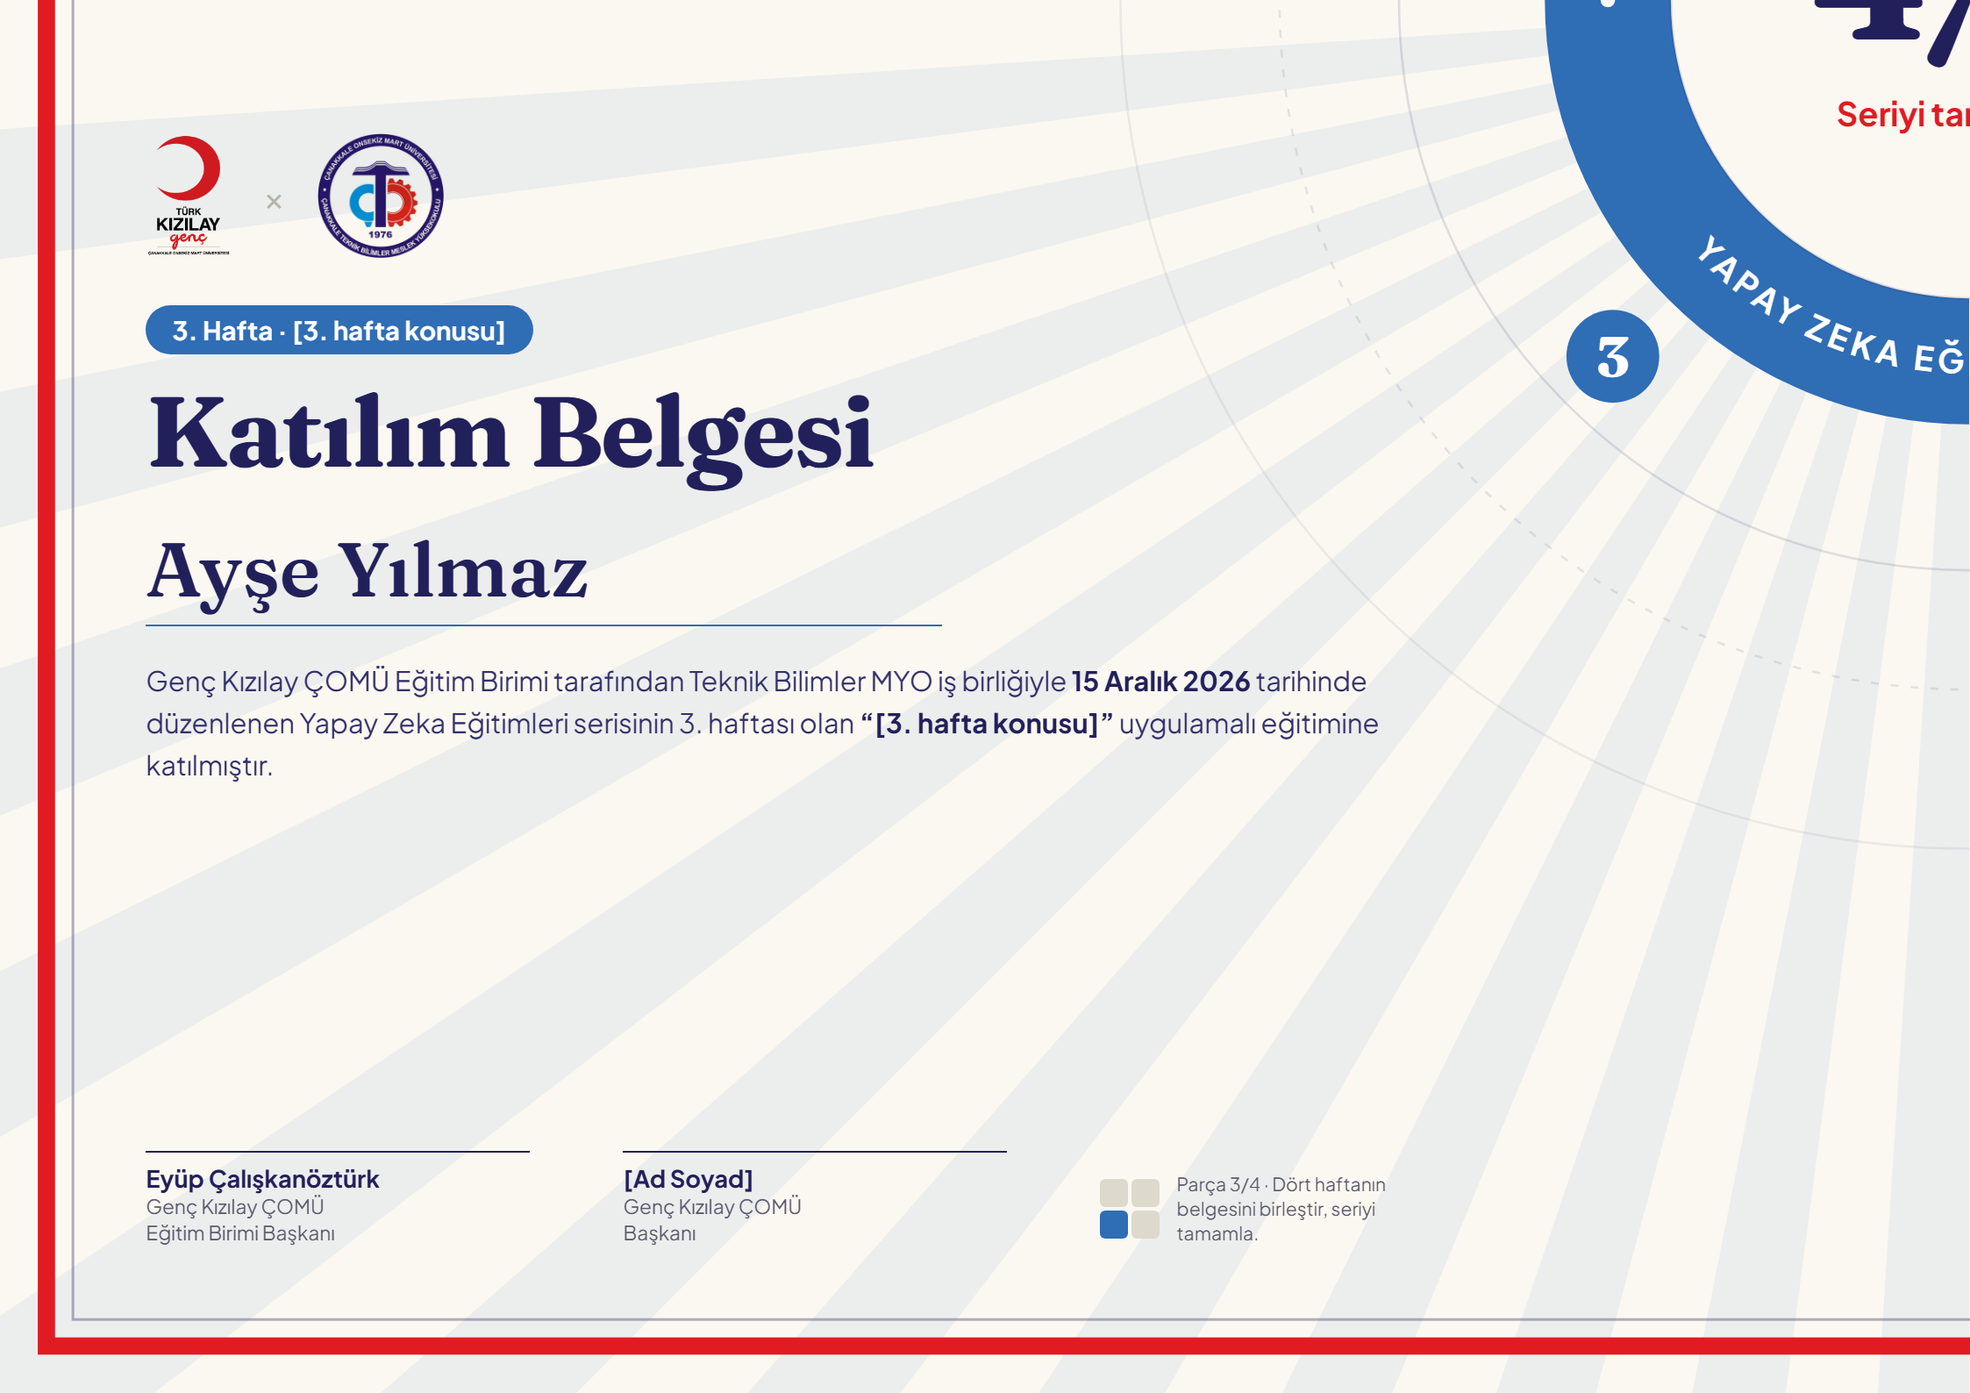
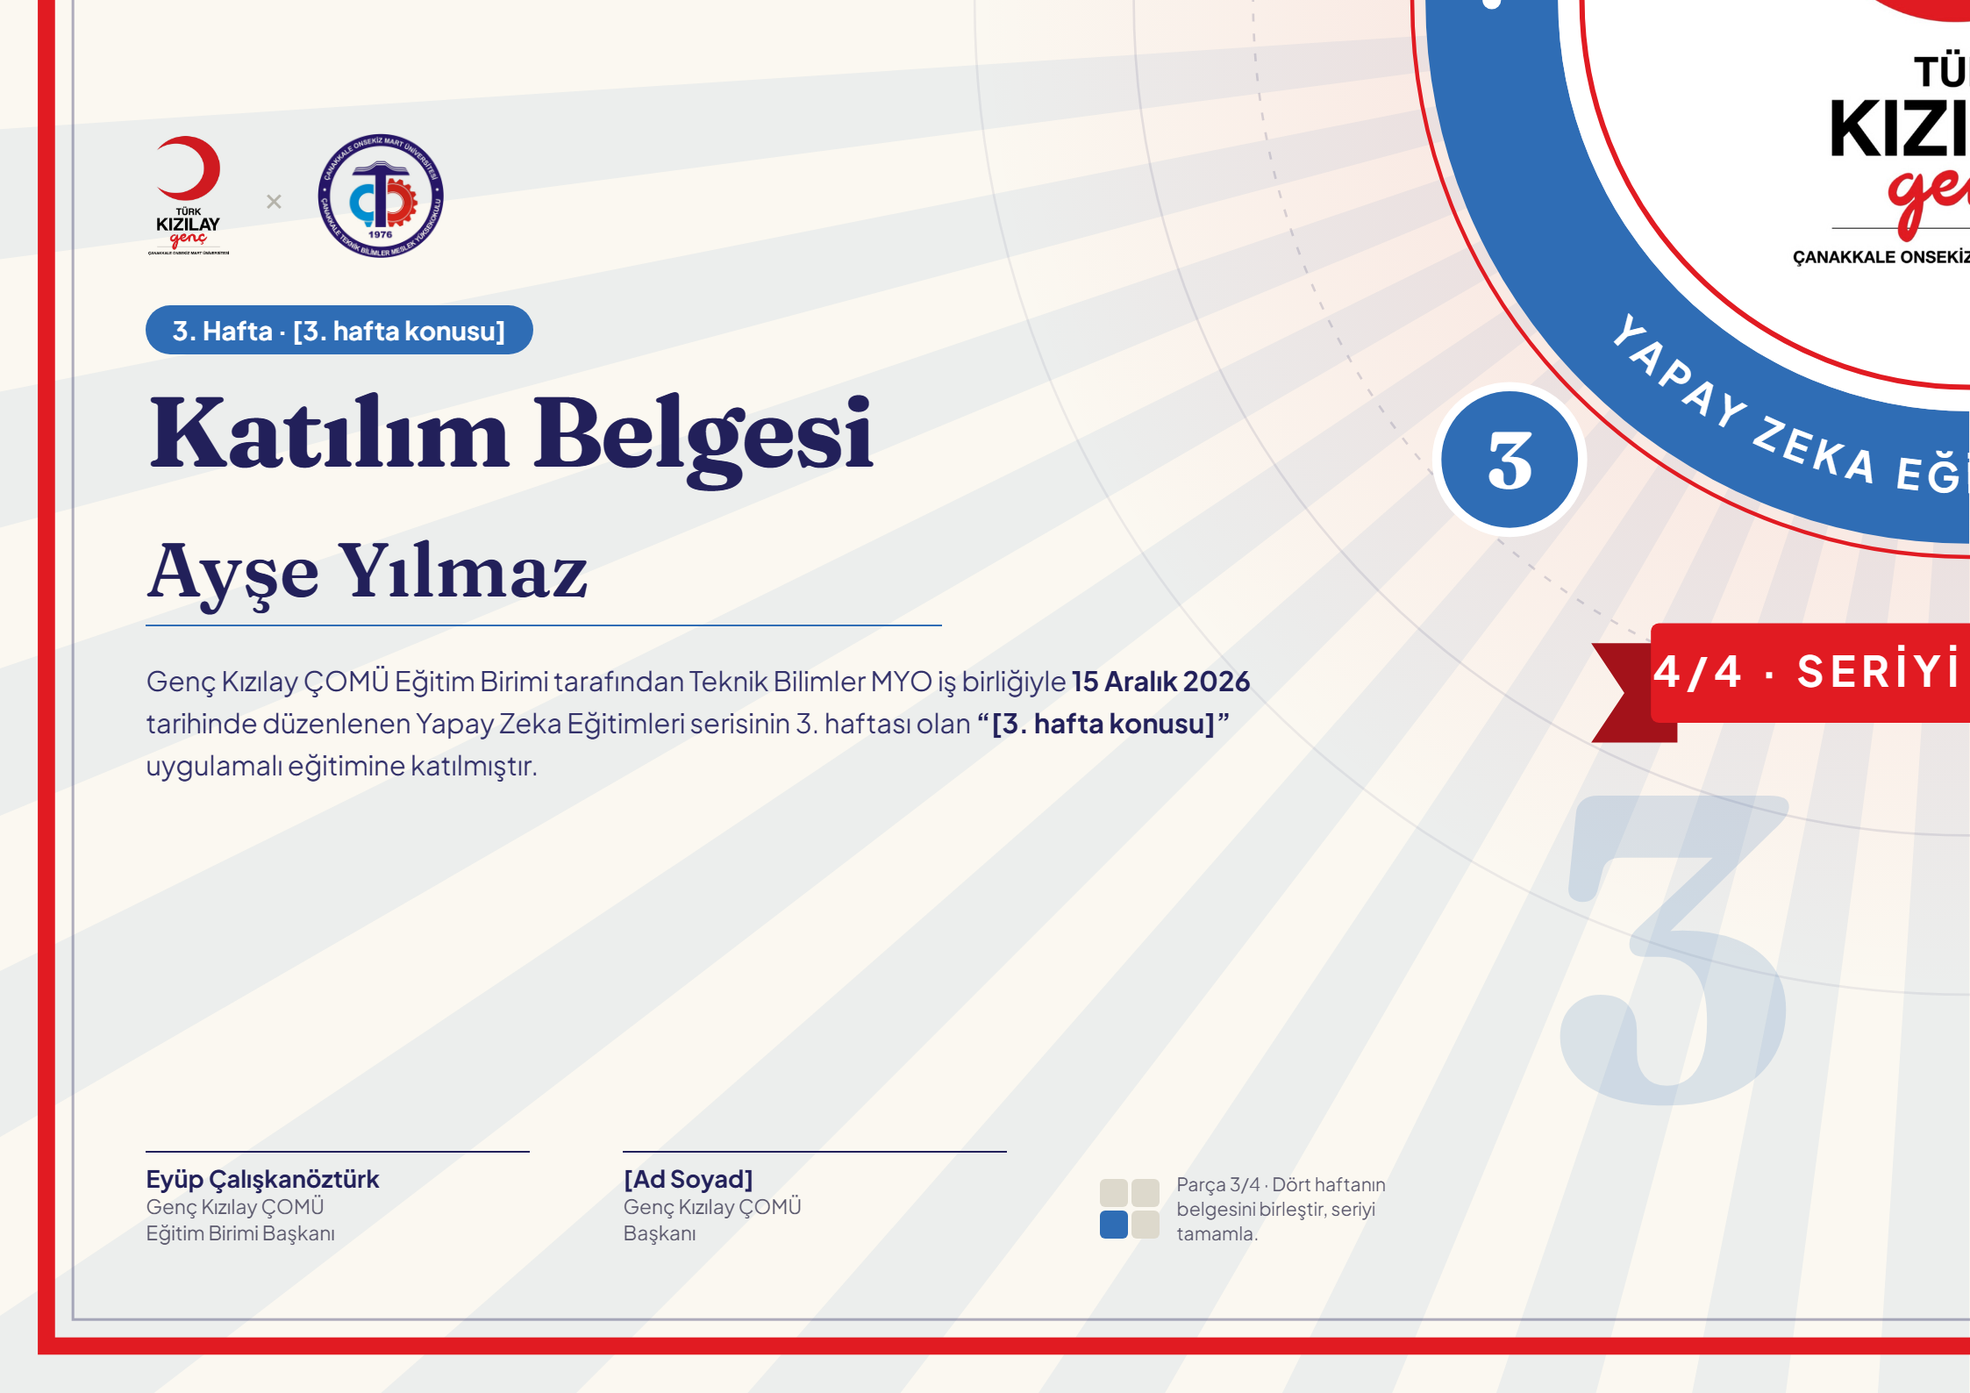
Belge: ortada Kızılay madalyonu, 1. hafta Claude ağırlıklı
- Birleşik tasarımın merkezinde resmi Genç Kızılay ÇOMÜ logosu,
  dört haftanın renk halkası ve "4/4 · Seriyi tamamladı" kurdelesi
- 1. hafta: büyük Claude yıldızı, yoğun turuncu ışınlar, etikette yıldız
- 2. hafta: Excel tablo motifi; 3-4. hafta konu belli olana kadar numara
- Hafta rozetlerinde konunun simgesi

Changed region(s): [[0.7168, 0.0, 1.0, 0.4011], [0.7792, 0.432, 1.0, 0.8023], [0.0623, 0.4628, 0.6857, 0.5554]]

diff --git a/sertifika/belge.html b/sertifika/belge.html
@@ -32,10 +32,11 @@
     .logolar { display: flex; align-items: center; gap: 5mm; }
     .logolar img { height: 19mm; width: auto; mix-blend-mode: multiply; }
     .logolar .carpi { color: #B5B3AA; font-size: 5mm; }
+    .hafta svg { width: 4.2mm; height: 4.2mm; vertical-align: -0.7mm; margin-right: 1.6mm; }
     .hafta { display: inline-block; margin-top: 7mm; padding: 1.4mm 4mm; border-radius: 10mm; color: #fff; font-weight: 700; font-size: 3.9mm; background: var(--renk); }
     h1 { font-family: var(--baslik); font-weight: 700; font-size: 15mm; line-height: 1; margin-top: 4mm; letter-spacing: -0.02em; }
     .ad { font-family: var(--baslik); font-weight: 600; font-size: 11.5mm; line-height: 1.1; margin-top: 7mm; padding-bottom: 2mm; border-bottom: 0.5mm solid var(--renk); min-width: 120mm; }
-    .metin { font-size: 4.1mm; line-height: 1.55; margin-top: 5mm; max-width: 190mm; color: #33316A; }
+    .metin { font-size: 4.1mm; line-height: 1.55; margin-top: 5mm; max-width: 172mm; color: #33316A; }
     .metin b { color: var(--murekkep); }
     .alt { margin-top: auto; display: flex; gap: 14mm; align-items: flex-end; }
     .sag .alt { flex-direction: row-reverse; }
@@ -59,57 +60,127 @@
 <body>
   <script>
     var HAFTALAR = [
-      { no: 1, konu: 'Claude ile Tanışma', tarih: '1 Aralık 2026', renk: '#D97757', seri: 'Yapay Zeka Eğitimleri serisinin 1. haftası olan', konum: 'sol ust-sira' },
-      { no: 2, konu: 'Excel Kullanımı', tarih: '8 Aralık 2026', renk: '#2E8B57', seri: 'Yapay Zeka Eğitimleri serisinin 2. haftası olan', konum: 'sag ust-sira' },
-      { no: 3, konu: '[3. hafta konusu]', tarih: '15 Aralık 2026', renk: '#2F6DB5', seri: 'Yapay Zeka Eğitimleri serisinin 3. haftası olan', konum: 'sol alt-sira' },
-      { no: 4, konu: '[4. hafta konusu]', tarih: '22 Aralık 2026', renk: '#6B4FA0', seri: 'Yapay Zeka Eğitimleri serisinin 4. haftası olan', konum: 'sag alt-sira' },
+      { no: 1, konu: 'Claude ile Tanışma', tarih: '1 Aralık 2026', renk: '#D97757', seri: 'Yapay Zeka Eğitimleri serisinin 1. haftası olan', konum: 'sol ust-sira', simge: 'claude' },
+      { no: 2, konu: 'Excel Kullanımı', tarih: '8 Aralık 2026', renk: '#2E8B57', seri: 'Yapay Zeka Eğitimleri serisinin 2. haftası olan', konum: 'sag ust-sira', simge: 'excel' },
+      { no: 3, konu: '[3. hafta konusu]', tarih: '15 Aralık 2026', renk: '#2F6DB5', seri: 'Yapay Zeka Eğitimleri serisinin 3. haftası olan', konum: 'sol alt-sira', simge: 'sayi' },
+      { no: 4, konu: '[4. hafta konusu]', tarih: '22 Aralık 2026', renk: '#6B4FA0', seri: 'Yapay Zeka Eğitimleri serisinin 4. haftası olan', konum: 'sag alt-sira', simge: 'sayi' },
     ];
+    var CLAUDE_YILDIZ = 'm19.6 66.5 19.7-11 .3-1-.3-.5h-1l-3.3-.2-11.2-.3L14 53l-9.5-.5-2.4-.5L0 49l.2-1.5 2-1.3 2.9.2 6.3.5 9.5.6 6.9.4L38 49.1h1.6l.2-.7-.5-.4-.4-.4L29 41l-10.6-7-5.6-4.1-3-2-1.5-2-.6-4.2 2.7-3 3.7.3.9.2 3.7 2.9 8 6.1L37 36l1.5 1.2.6-.4.1-.3-.7-1.1L33 25l-6-10.4-2.7-4.3-.7-2.6c-.3-1-.4-2-.4-3l3-4.2L28 0l4.2.6L33.8 2l2.6 6 4.1 9.3L47 29.9l2 3.8 1 3.4.3 1h.7v-.5l.5-7.2 1-8.7 1-11.2.3-3.2 1.6-3.8 3-2L61 2.6l2 2.9-.3 1.8-1.1 7.7L59 27.1l-1.5 8.2h.9l1-1.1 4.1-5.4 6.9-8.6 3-3.5L77 13l2.3-1.8h4.3l3.1 4.7-1.4 4.9-4.4 5.6-3.7 4.7-5.3 7.1-3.2 5.7.3.4h.7l12-2.6 6.4-1.1 7.6-1.3 3.5 1.6.4 1.6-1.4 3.4-8.2 2-9.6 2-14.3 3.3-.2.1.2.3 6.4.6 2.8.2h6.8l12.6 1 3.3 2 1.9 2.7-.3 2-5.1 2.6-6.8-1.6-16-3.8-5.4-1.3h-.8v.4l4.6 4.5 8.3 7.5L89 80.1l.5 2.4-1.3 2-1.4-.2-9.2-7-3.6-3-8-6.8h-.5v.7l1.8 2.7 9.8 14.7.5 4.5-.7 1.4-2.6 1-2.7-.6-5.8-8-6-9-4.7-8.2-.5.4-2.9 30.2-1.3 1.5-3 1.2-2.5-2-1.4-3 1.4-6.2 1.6-8 1.3-6.4 1.2-7.9.7-2.6v-.2H49L43 72l-9 12.3-7.2 7.6-1.7.7-3-1.5.3-2.8L24 86l10-12.8 6-7.9 4-4.6-.1-.5h-.3L17.2 77.4l-4.7.6-2-2 .2-3 1-1 8-5.5Z';
     var IMZALAR = [
       { ad: 'Eyüp Çalışkanöztürk', unvan: 'Genç Kızılay ÇOMÜ<br>Eğitim Birimi Başkanı' },
       { ad: '[Ad Soyad]', unvan: 'Genç Kızılay ÇOMÜ<br>Başkanı' },
     ];
 
     // ---------- Dört belgeye yayılan ortak desen (594×420 mm, merkez 297,210) ----------
+    // Ortada resmi Genç Kızılay ÇOMÜ logosu; çevresinde dört haftanın renk halkası.
     function ortakDesen() {
       var cx = 297, cy = 210, s = '';
-      var renk = function (aci) { // SVG'de açı saat yönünde, y aşağı
-        if (aci >= 180 && aci < 270) return HAFTALAR[0].renk; // sol üst
-        if (aci >= 270) return HAFTALAR[1].renk;               // sağ üst
-        if (aci >= 90 && aci < 180) return HAFTALAR[2].renk;   // sol alt
-        return HAFTALAR[3].renk;                               // sağ alt
-      };
+      var R = HAFTALAR.map(function (h) { return h.renk; });
+      var ceyrek = function (aci) { return aci >= 180 && aci < 270 ? 0 : aci >= 270 ? 1 : aci >= 90 ? 2 : 3; };
       var nokta = function (r, aci) { var a = aci * Math.PI / 180; return (cx + r * Math.cos(a)).toFixed(2) + ',' + (cy + r * Math.sin(a)).toFixed(2); };
-      // Işınlar
+      var xy = function (r, aci) { return nokta(r, aci).split(',').map(Number); };
+      var yazi = function (x, y, boyut, renk, metin, ek) { return '<text x="' + x + '" y="' + y + '" text-anchor="middle" font-family="Plus Jakarta Sans, sans-serif" font-weight="700" font-size="' + boyut + '" fill="' + renk + '"' + (ek || '') + '>' + metin + '</text>'; };
+
+      // Işınlar (1. hafta çeyreği daha yoğun: Claude baskın)
       for (var aci = 0; aci < 360; aci += 7.5) {
-        s += '<polygon points="' + cx + ',' + cy + ' ' + nokta(480, aci) + ' ' + nokta(480, aci + 3.75) + '" fill="' + renk(aci + 1) + '" fill-opacity="0.07"/>';
+        var c = ceyrek(aci + 1);
+        s += '<polygon points="' + cx + ',' + cy + ' ' + nokta(480, aci) + ' ' + nokta(480, aci + 3.75) + '" fill="' + R[c] + '" fill-opacity="' + (c === 0 ? 0.13 : 0.07) + '"/>';
       }
-      // Halkalar
-      [86, 104, 128].forEach(function (r, i) { s += '<circle cx="' + cx + '" cy="' + cy + '" r="' + r + '" fill="none" stroke="#22205A" stroke-opacity="' + (0.13 - i * 0.03) + '" stroke-width="0.35" stroke-dasharray="' + (i === 1 ? '1.2 1.8' : 'none') + '"/>'; });
-      // Madalyon: dört renkli dilim
+      // Merkezde Kızılay kırmızısı hale
+      s += '<defs><radialGradient id="hale"><stop offset="0" stop-color="#E11B22" stop-opacity="0.14"/><stop offset="1" stop-color="#E11B22" stop-opacity="0"/></radialGradient></defs>';
+      s += '<circle cx="' + cx + '" cy="' + cy + '" r="150" fill="url(#hale)"/>';
+      // İnce halkalar
+      [[108, '1.2 1.8', 0.16], [126, 'none', 0.10], [150, 'none', 0.07]].forEach(function (h) {
+        s += '<circle cx="' + cx + '" cy="' + cy + '" r="' + h[0] + '" fill="none" stroke="#22205A" stroke-opacity="' + h[2] + '" stroke-width="0.35" stroke-dasharray="' + h[1] + '"/>';
+      });
+
+      // Renk halkası: her hafta bir çeyrek (62–82 mm)
       [[180, 0], [270, 1], [90, 2], [0, 3]].forEach(function (d) {
-        s += '<path d="M' + cx + ',' + cy + ' L' + nokta(64, d[0]) + ' A64,64 0 0 1 ' + nokta(64, d[0] + 90) + ' Z" fill="' + HAFTALAR[d[1]].renk + '"/>';
+        var a = d[0], b = d[0] + 90;
+        s += '<path d="M' + nokta(82, a) + ' A82,82 0 0 1 ' + nokta(82, b) + ' L' + nokta(62, b) + ' A62,62 0 0 0 ' + nokta(62, a) + ' Z" fill="' + R[d[1]] + '"/>';
       });
-      // Halka yazısı: üst yay saat yönünde, alt yay ters yönde; ikisi de soldan sağa düz okunur
-      s += '<defs><path id="ust-yay" d="M' + (cx - 52.6) + ',' + cy + ' A52.6,52.6 0 0 1 ' + (cx + 52.6) + ',' + cy + '"/>' +
-           '<path id="alt-yay" d="M' + (cx - 56.4) + ',' + cy + ' A56.4,56.4 0 0 0 ' + (cx + 56.4) + ',' + cy + '"/></defs>';
-      var halka = function (id, metin, ls) { return '<text font-family="Plus Jakarta Sans, sans-serif" font-weight="700" font-size="5" fill="#FFFFFF" letter-spacing="' + ls + '" text-anchor="middle"><textPath href="#' + id + '" startOffset="50%">' + metin + '</textPath></text>'; };
-      s += halka('ust-yay', 'GENÇ KIZILAY ÇOMÜ', 1.5) + halka('alt-yay', 'YAPAY ZEKA EĞİTİMLERİ · 2026', 0.7);
-      [nokta(54.5, 180), nokta(54.5, 0)].forEach(function (p) { p = p.split(','); s += '<circle cx="' + p[0] + '" cy="' + p[1] + '" r="1.1" fill="#FFFFFF"/>'; });
-      // İç disk
-      s += '<circle cx="' + cx + '" cy="' + cy + '" r="45" fill="#FBF8F1"/>';
-      s += '<circle cx="' + cx + '" cy="' + cy + '" r="45" fill="none" stroke="#22205A" stroke-opacity="0.15" stroke-width="0.4"/>';
-      s += '<text x="' + cx + '" y="' + (cy + 6) + '" text-anchor="middle" font-family="Fraunces, Georgia, serif" font-weight="700" font-size="27" fill="#22205A" letter-spacing="-0.6">4/4</text>';
-      s += '<text x="' + cx + '" y="' + (cy + 19) + '" text-anchor="middle" font-family="Plus Jakarta Sans, sans-serif" font-weight="700" font-size="5" fill="#E11B22">Seriyi tamamladı</text>';
-      // Hafta numaraları (madalyonun dışında)
+      s += '<circle cx="' + cx + '" cy="' + cy + '" r="84" fill="none" stroke="#E11B22" stroke-width="0.6"/>';
+      // Halka yazısı: üst yay saat yönünde, alt yay ters yönde; ikisi de düz okunur
+      s += '<defs><path id="ust-yay" d="M' + (cx - 69.6) + ',' + cy + ' A69.6,69.6 0 0 1 ' + (cx + 69.6) + ',' + cy + '"/>' +
+           '<path id="alt-yay" d="M' + (cx - 74.4) + ',' + cy + ' A74.4,74.4 0 0 0 ' + (cx + 74.4) + ',' + cy + '"/></defs>';
+      var halka = function (id, metin) { return '<text font-family="Plus Jakarta Sans, sans-serif" font-weight="700" font-size="6.2" fill="#FFFFFF" letter-spacing="1.1" text-anchor="middle"><textPath href="#' + id + '" startOffset="50%">' + metin + '</textPath></text>'; };
+      s += halka('ust-yay', 'GENÇ KIZILAY ÇOMÜ · EĞİTİM BİRİMİ') + halka('alt-yay', 'YAPAY ZEKA EĞİTİMLERİ · 2026');
+      [180, 0].forEach(function (a) { var p = xy(72, a); s += '<circle cx="' + p[0] + '" cy="' + p[1] + '" r="1.4" fill="#FFFFFF"/>'; });
+
+      // Beyaz disk ve resmi logo
+      s += '<circle cx="' + cx + '" cy="' + cy + '" r="62" fill="#FFFFFF"/>';
+      s += '<circle cx="' + cx + '" cy="' + cy + '" r="58.4" fill="none" stroke="#E11B22" stroke-width="0.8"/>';
+      var lh = 84, lw = lh * 607 / 900;
+      s += '<image href="../gorseller/logolar/genc-kizilay-comu.png" x="' + (cx - lw / 2) + '" y="' + (cy - lh / 2) + '" width="' + lw + '" height="' + lh + '"/>';
+
+      // Hafta rozetleri (konunun simgesiyle)
       [[225, 0], [315, 1], [135, 2], [45, 3]].forEach(function (d) {
-        var p = nokta(76, d[0]).split(',');
-        s += '<circle cx="' + p[0] + '" cy="' + p[1] + '" r="7" fill="' + HAFTALAR[d[1]].renk + '"/>';
-        s += '<text x="' + p[0] + '" y="' + (Number(p[1]) + 3) + '" text-anchor="middle" font-family="Fraunces, Georgia, serif" font-weight="700" font-size="8.5" fill="#FFFFFF">' + (d[1] + 1) + '</text>';
+        var p = xy(98, d[0]), h = HAFTALAR[d[1]];
+        s += '<circle cx="' + p[0] + '" cy="' + p[1] + '" r="11" fill="' + h.renk + '" stroke="#FFFFFF" stroke-width="1.4"/>';
+        s += simge(h.simge, p[0], p[1], 12, '#FFFFFF', h.no, true);
       });
+
+      // Kurdele: 4/4 · Seriyi tamamladı
+      var ky = cy + 101, kw = 96, sol = cx - kw / 2, sag = cx + kw / 2;
+      var kuyruk = function (dis, ic, uc) { return '<polygon points="' + dis + ',' + (ky - 4) + ' ' + ic + ',' + (ky - 4) + ' ' + ic + ',' + (ky + 11) + ' ' + dis + ',' + (ky + 11) + ' ' + uc + ',' + (ky + 3.5) + '" fill="#A3121A"/>'; };
+      s += kuyruk(sol - 9, sol + 4, sol - 4) + kuyruk(sag + 9, sag - 4, sag + 4);
+      s += '<rect x="' + sol + '" y="' + (ky - 7) + '" width="' + kw + '" height="15" rx="1.2" fill="#E11B22"/>';
+      s += yazi(cx, ky + 2.6, 6.4, '#FFFFFF', '4/4 · SERİYİ TAMAMLADI', ' letter-spacing="0.9"');
+
+      // Her parçanın boş köşesinde haftanın büyük simgesi
+      [[252, 64], [342, 64], [252, 352], [342, 352]].forEach(function (p, i) {
+        var h = HAFTALAR[i];
+        s += simge(h.simge, p[0], p[1], 62, h.renk, h.no, false);
+      });
+
       // Dış çerçeve (her belgede iki dış kenar; birleşince tek çerçeve)
       s += '<rect x="7" y="7" width="580" height="406" fill="none" stroke="#E11B22" stroke-width="2.6"/>';
       s += '<rect x="11" y="11" width="572" height="398" fill="none" stroke="#22205A" stroke-opacity="0.35" stroke-width="0.4"/>';
       return s;
+    }
+
+    // Haftanın simgesi: (x,y) merkezli, b mm boyunda. kucuk=true ise rozet içi sade hâli.
+    function simge(tur, x, y, b, renk, no, kucuk) {
+      var cizgi = function (x1, y1, x2, y2, k, op) { return '<line x1="' + x1 + '" y1="' + y1 + '" x2="' + x2 + '" y2="' + y2 + '" stroke="' + renk + '" stroke-width="' + k + '"' + (op ? ' stroke-opacity="' + op + '"' : '') + '/>'; };
+      var harf = function (hx, hy, boyut, metin, dolgu) { return '<text x="' + hx + '" y="' + hy + '" text-anchor="middle" font-family="Plus Jakarta Sans, sans-serif" font-weight="700" font-size="' + boyut + '" fill="' + dolgu + '">' + metin + '</text>'; };
+
+      if (tur === 'claude') {
+        return '<path d="' + CLAUDE_YILDIZ + '" fill="' + renk + '" transform="translate(' + (x - b / 2) + ' ' + (y - b / 2) + ') scale(' + (b / 100) + ')"/>';
+      }
+      if (tur === 'excel') {
+        var w, h, x0, y0, g = '';
+        if (kucuk) { // sade tablo simgesi
+          w = b * 0.9; h = b * 0.7; x0 = x - w / 2; y0 = y - h / 2;
+          g += '<rect x="' + x0 + '" y="' + y0 + '" width="' + w + '" height="' + h + '" rx="0.8" fill="none" stroke="' + renk + '" stroke-width="1.1"/>';
+          g += cizgi(x0, y0 + h / 3, x0 + w, y0 + h / 3, 1.1) + cizgi(x0, y0 + 2 * h / 3, x0 + w, y0 + 2 * h / 3, 0.8) + cizgi(x0 + w / 3, y0, x0 + w / 3, y0 + h, 0.8);
+          return g;
+        }
+        // Büyük hâli: başlık satırı, satır numaraları, dolu hücreler, =TOPLA ve küçük sütun grafiği
+        w = b; h = b * 0.8; x0 = x - w / 2; y0 = y - h / 2;
+        var sat = 6, ch = h / sat, nw = w * 0.12, dx = (w - nw) / 4;
+        g += '<rect x="' + x0 + '" y="' + y0 + '" width="' + w + '" height="' + h + '" rx="2" fill="#FFFFFF" stroke="' + renk + '" stroke-width="0.8"/>';
+        g += '<path d="M' + x0 + ',' + (y0 + ch) + ' V' + (y0 + 2) + ' a2,2 0 0 1 2,-2 H' + (x0 + w - 2) + ' a2,2 0 0 1 2,2 V' + (y0 + ch) + ' Z" fill="' + renk + '"/>';
+        g += '<rect x="' + x0 + '" y="' + (y0 + ch) + '" width="' + nw + '" height="' + (h - ch) + '" fill="' + renk + '" fill-opacity="0.12"/>';
+        ['A', 'B', 'C', 'D'].forEach(function (hf, i) { g += harf(x0 + nw + dx * (i + 0.5), y0 + ch * 0.7, 3.6, hf, '#FFFFFF'); });
+        for (var j = 1; j < sat; j++) {
+          g += cizgi(x0, y0 + ch * j, x0 + w, y0 + ch * j, 0.3, 0.35);
+          g += harf(x0 + nw / 2, y0 + ch * (j + 0.68), 3, j, renk);
+        }
+        for (var k = 0; k < 4; k++) g += cizgi(x0 + nw + dx * k, y0 + ch, x0 + nw + dx * k, y0 + h, 0.3, 0.35);
+        [[0, 1, 0.6], [1, 2, 0.35], [0, 3, 0.8], [1, 4, 0.5]].forEach(function (c) {
+          g += '<rect x="' + (x0 + nw + dx * c[0] + 1) + '" y="' + (y0 + ch * c[1] + 1.1) + '" width="' + (dx * c[2]) + '" height="' + (ch - 2.2) + '" rx="0.5" fill="' + renk + '" fill-opacity="0.45"/>';
+        });
+        g += '<rect x="' + (x0 + nw + 0.5) + '" y="' + (y0 + ch * 5 + 0.6) + '" width="' + (dx * 2 - 1) + '" height="' + (ch - 1.2) + '" fill="none" stroke="' + renk + '" stroke-width="0.9"/>';
+        g += harf(x0 + nw + dx, y0 + ch * 5.68, 3, '=TOPLA(B1:B4)', renk);
+        [0.35, 0.6, 0.45, 0.85].forEach(function (v, i) {
+          var bh = (ch * 4 - 3) * v;
+          g += '<rect x="' + (x0 + nw + dx * 2 + 3 + i * (dx * 2 - 6) / 4) + '" y="' + (y0 + ch * 5 - 1.5 - bh) + '" width="' + ((dx * 2 - 6) / 4 - 1.2) + '" height="' + bh + '" rx="0.4" fill="' + renk + '"/>';
+        });
+        return g;
+      }
+      // Konusu henüz belli olmayan hafta: numara
+      if (kucuk) return '<text x="' + x + '" y="' + (y + b * 0.36) + '" text-anchor="middle" font-family="Fraunces, Georgia, serif" font-weight="700" font-size="' + b + '" fill="' + renk + '">' + no + '</text>';
+      return '<text x="' + x + '" y="' + (y + b * 0.38) + '" text-anchor="middle" font-family="Fraunces, Georgia, serif" font-weight="700" font-size="' + (b * 1.05) + '" fill="' + renk + '" fill-opacity="0.16">' + no + '</text>';
     }
 
     function belge(h, ad) {
@@ -119,7 +190,7 @@
         '<svg class="desen" viewBox="' + (sutun * 297) + ' ' + (sira * 210) + ' 297 210" preserveAspectRatio="none">' + DESEN + '</svg>' +
         '<div class="icerik">' +
           '<div class="logolar"><img src="../gorseller/logolar/genc-kizilay-comu.png" alt=""><span class="carpi">×</span><img src="../gorseller/logolar/tbmyo.png" alt=""></div>' +
-          '<span class="hafta">' + h.no + '. Hafta · ' + h.konu + '</span>' +
+          '<span class="hafta">' + (h.simge === 'claude' ? '<svg viewBox="0 0 100 100"><path d="' + CLAUDE_YILDIZ + '" fill="#fff"/></svg>' : '') + h.no + '. Hafta · ' + h.konu + '</span>' +
           '<h1>Katılım Belgesi</h1>' +
           '<p class="ad">' + kacis(ad) + '</p>' +
           '<p class="metin">Genç Kızılay ÇOMÜ Eğitim Birimi tarafından Teknik Bilimler MYO iş birliğiyle <b>' + h.tarih + '</b> tarihinde düzenlenen ' + h.seri + ' <b>“' + h.konu + '”</b> uygulamalı eğitimine katılmıştır.</p>' +
